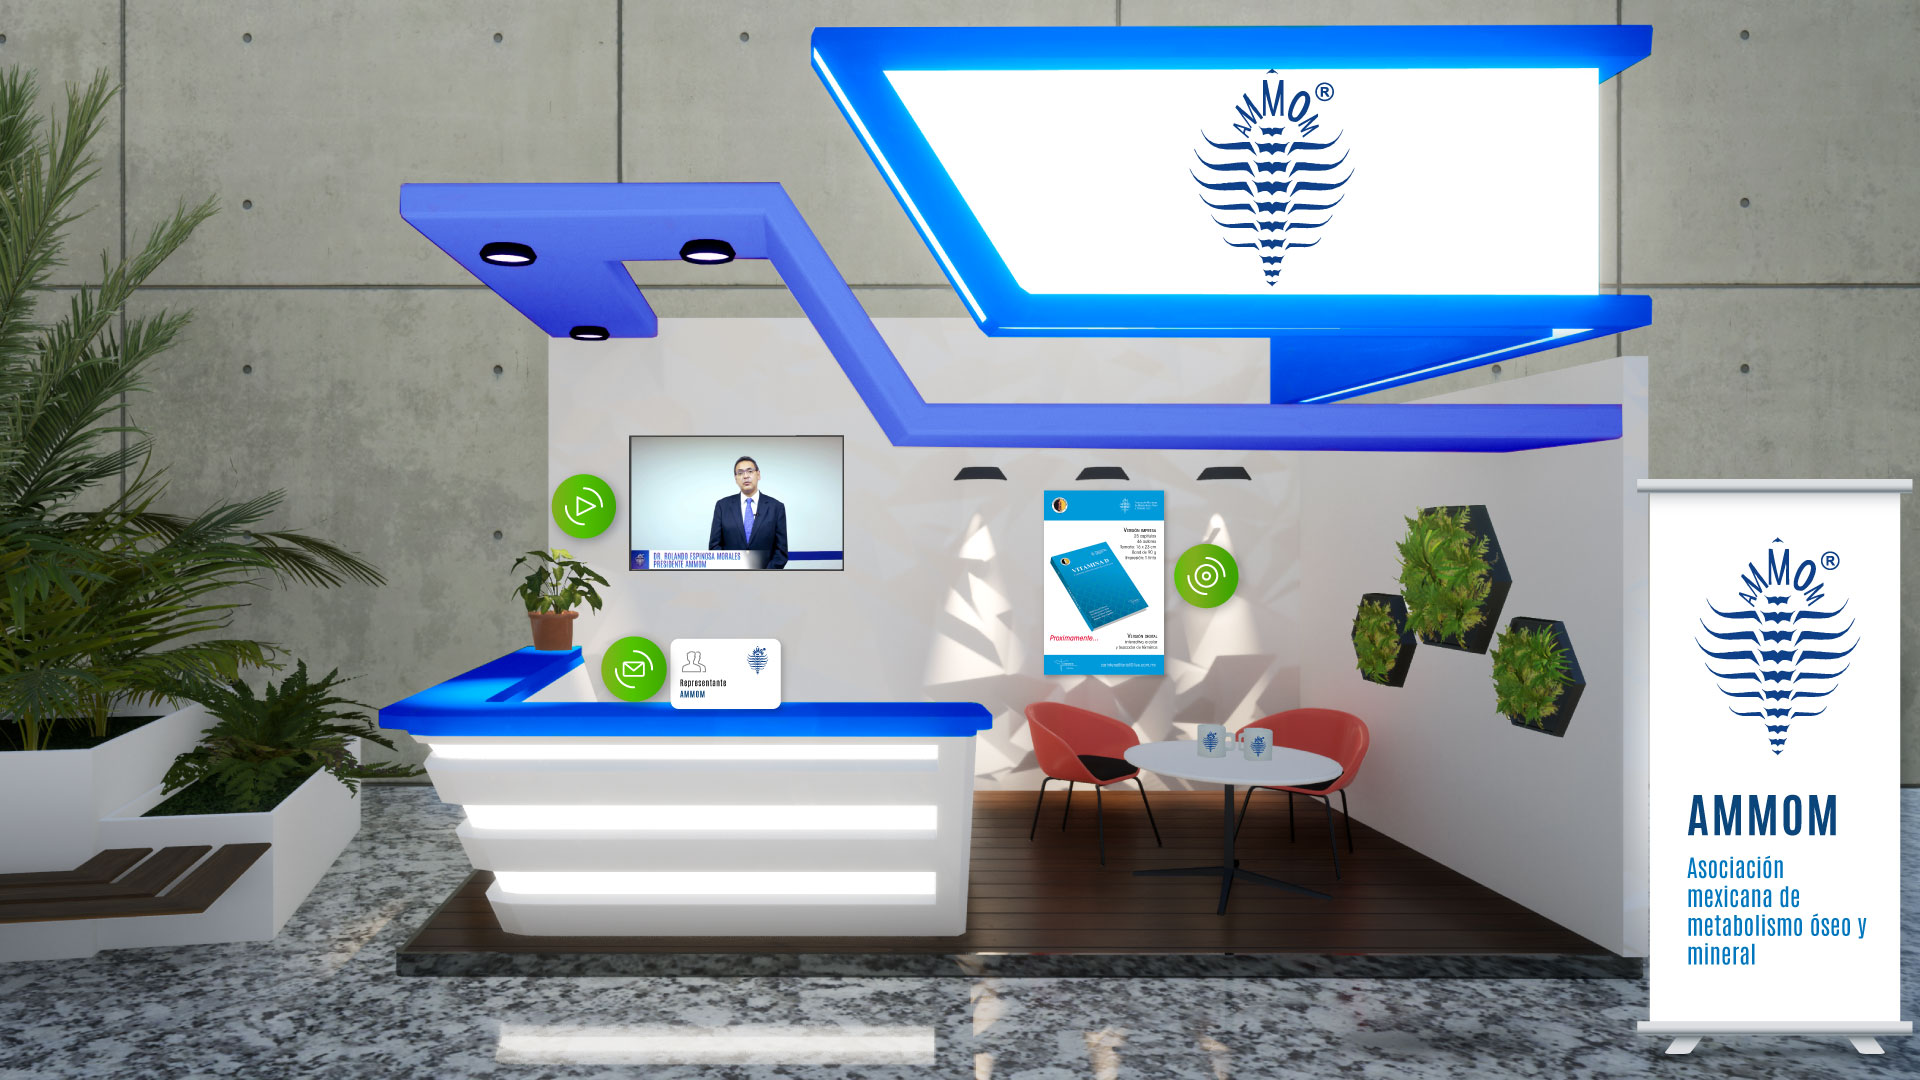
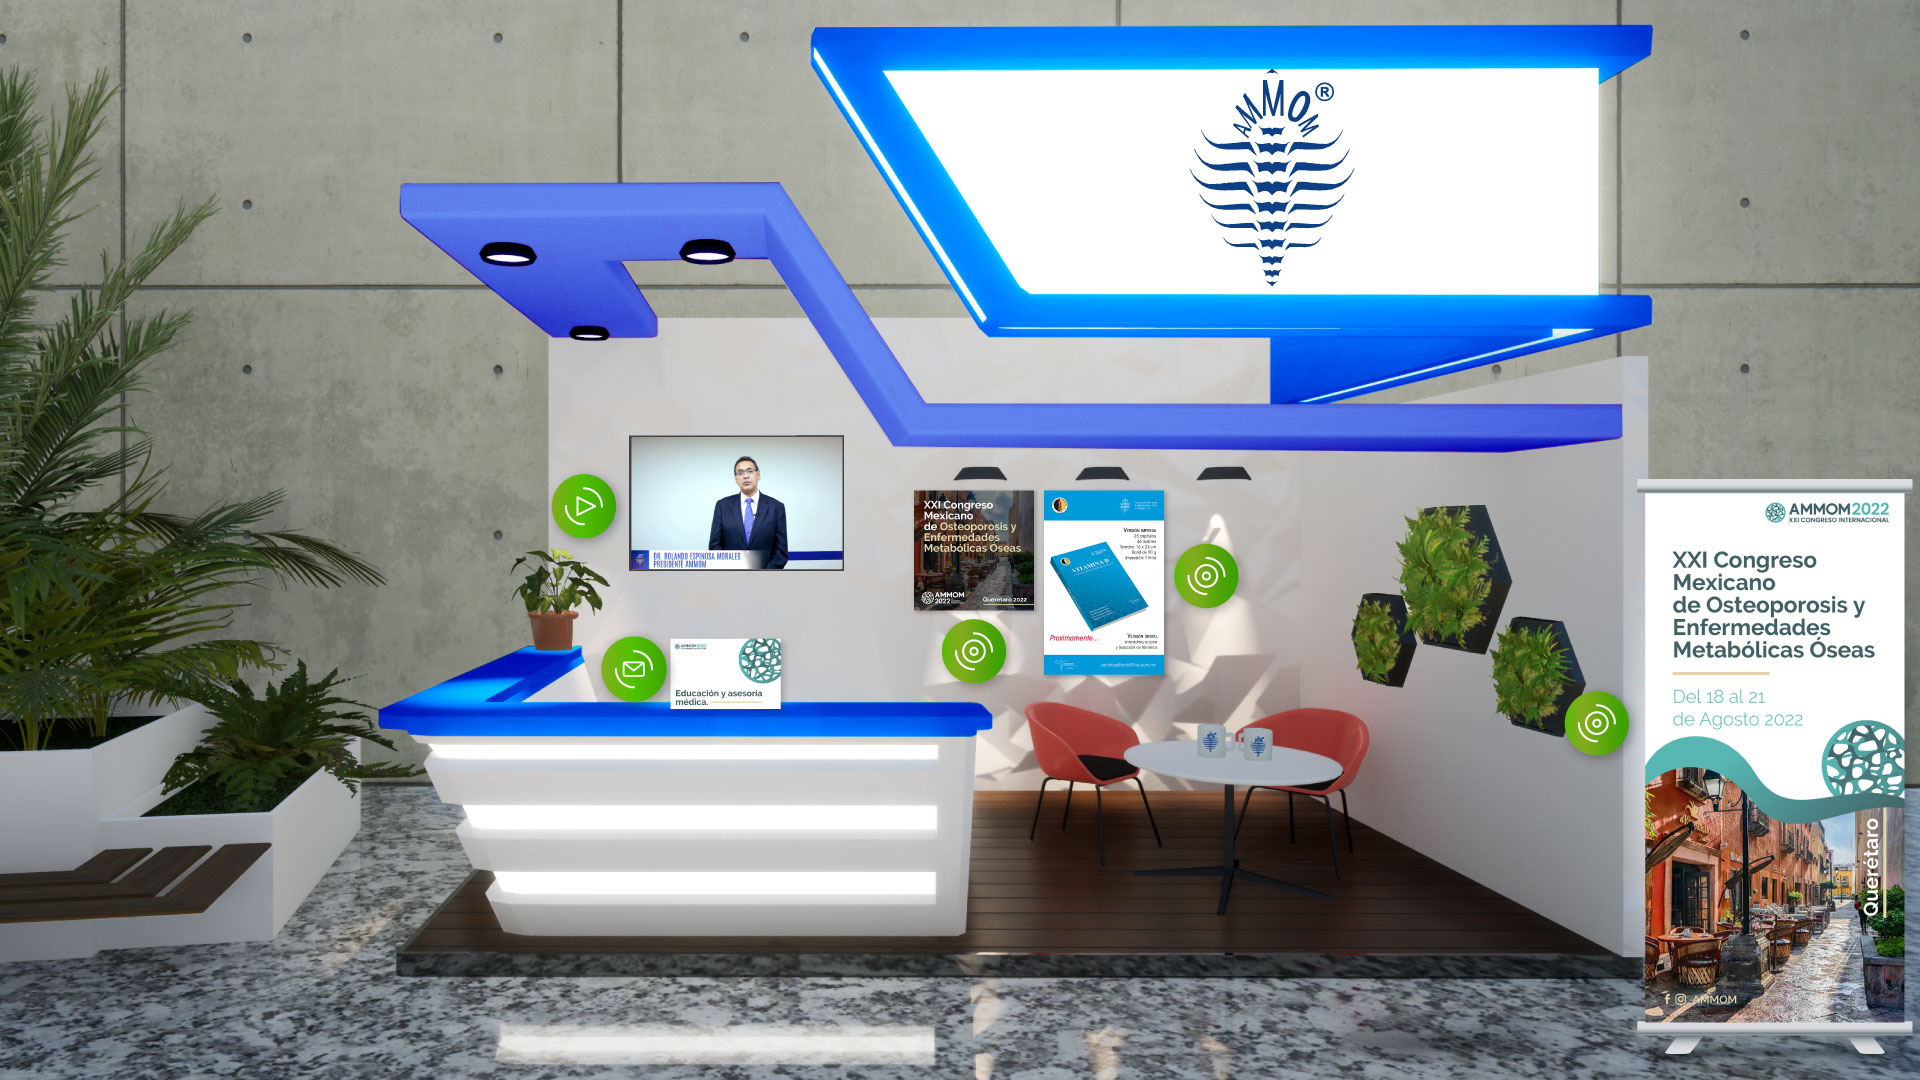
aoh

Changed region(s): [[0.8125, 0.4583, 1.0, 0.9472], [0.4688, 0.4278, 0.5625, 0.6417], [0.3438, 0.5806, 0.4062, 0.6722]]

diff --git a/pages/congreso-virtual/ammom.vue b/pages/congreso-virtual/ammom.vue
@@ -59,6 +59,16 @@
               class="rim-hotspot stand-button"
               style="width: 10.5%; height: 17.4%; left: 54.5%; top: 45.1%"
             ></a>
+            <a
+              @click="$bvModal.show('cuatro')"
+              class="rim-hotspot stand-button"
+              style="width: 7%; height: 17.6%; left: 46.7%; top: 45.4%"
+            ></a>
+            <a
+              @click="$bvModal.show('cinco')"
+              class="rim-hotspot stand-button"
+              style="width: 18.5%; height: 40.4%; left: 81.5%; top: 45.1%"
+            ></a>
           </div>
         </div>
       </div>
@@ -190,6 +200,16 @@
             <b-modal id="tres" hide-footer>
               <div class="d-block text-center">
                 <img src="~/assets/images/ammom/3.jpg" width="100%;" />
+              </div>
+            </b-modal>
+            <b-modal id="cuatro" hide-footer>
+              <div class="d-block text-center">
+                <img src="~/assets/images/ammom/4.jpg" width="100%;" />
+              </div>
+            </b-modal>
+            <b-modal id="cinco" hide-footer>
+              <div class="d-block text-center">
+                <img src="~/assets/images/ammom/5.jpg" width="100%;" />
               </div>
             </b-modal>
           </div>

diff --git a/pages/index.vue b/pages/index.vue
@@ -24,12 +24,18 @@
                 <img
                   src="~/assets/img/logo/logo_cover_2.png"
                   alt="Logo AMMOM"
+                  class="w-100"
                 />
                 <h2 class="mb-4">DEL 6 AL 8 DE MAYO 2021</h2>
                 <a
                   class="btn"
                   href="https://www.srcongress.mx/ammom/registro_virtual.php"
                   >REGÍSTRATE</a
+                >
+                <br />
+                <br />
+                <a href="#" v-b-modal.modal-login class="mt-3"
+                  >Si ya estás registrado, ingrese aquí.</a
                 >
               </div>
             </div>
@@ -355,6 +361,10 @@
                 </div>
         </section-->
     <!-- Brand Area End-->
+
+    <!-- <b-modal id="modal-login" :hide-footer="true" title="Iniciar sesión">
+      <login-modal-component />
+    </b-modal> -->
   </main>
 </template>
 
@@ -588,10 +598,10 @@ export default {
 
 .slider-bg {
   /deep/ .VueCarousel {
-    max-height: 600px;
+    max-height: 650px;
 
     .VueCarousel-inner {
-      height: 600px !important;
+      height: 650px !important;
     }
 
     .VueCarousel-pagination {

diff --git a/layouts/default.vue b/layouts/default.vue
@@ -340,6 +340,12 @@ export default {
 
 <style lang="scss">
 @import "assets/scss/color";
+
+
+.btn-header {
+  background-color: #411EF5;
+}
+
 .nav-item {
   text-align: center;
 }
